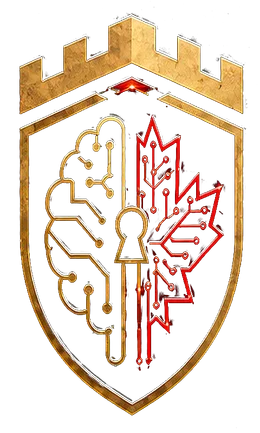
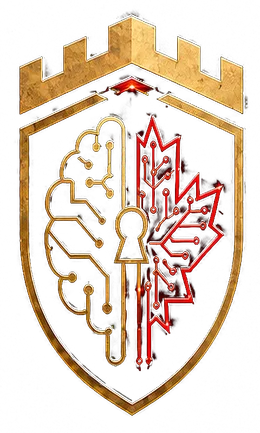
Clean shield cutout (chroma+brightness keying), remove glow halo

diff --git a/src/components/home/hero.tsx b/src/components/home/hero.tsx
@@ -32,7 +32,7 @@ export function Hero({ locale, dict }: HeroProps) {
               height={433}
               priority
               aria-hidden="true"
-              className="mx-auto h-48 w-auto drop-shadow-[0_0_28px_rgba(212,175,55,0.35)] sm:h-64 lg:h-80"
+              className="mx-auto h-48 w-auto sm:h-64 lg:h-80"
             />
           </Reveal>
 
